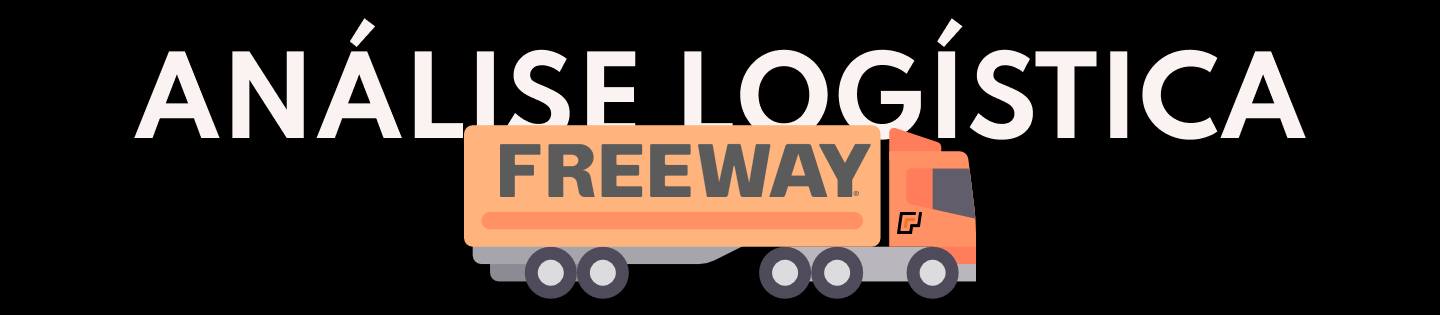
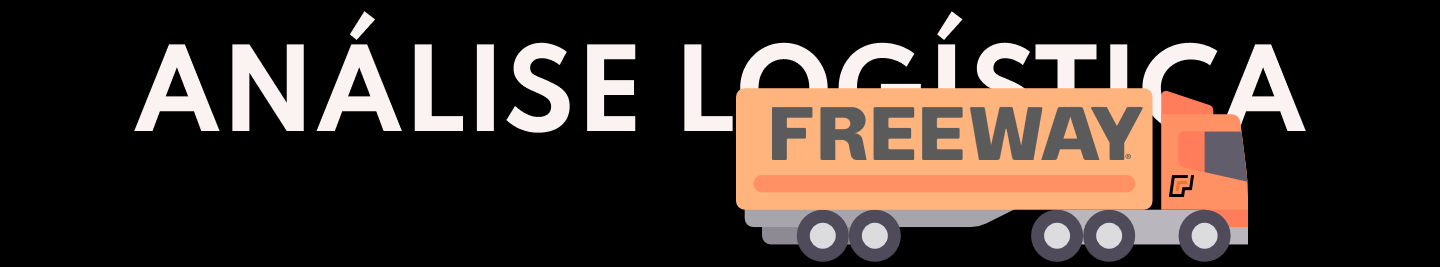
a

diff --git a/dash.py b/dash.py
@@ -11,7 +11,7 @@ st.set_page_config(layout = "wide",page_title="Logística FW",page_icon="🚚")
 with open("style.css") as f:
     st.markdown(f"<style>{f.read()}</style>",unsafe_allow_html = True)
 
-st.image("header.png")
+st.image("header.png",width = 1000)
 st.divider()
 
 
